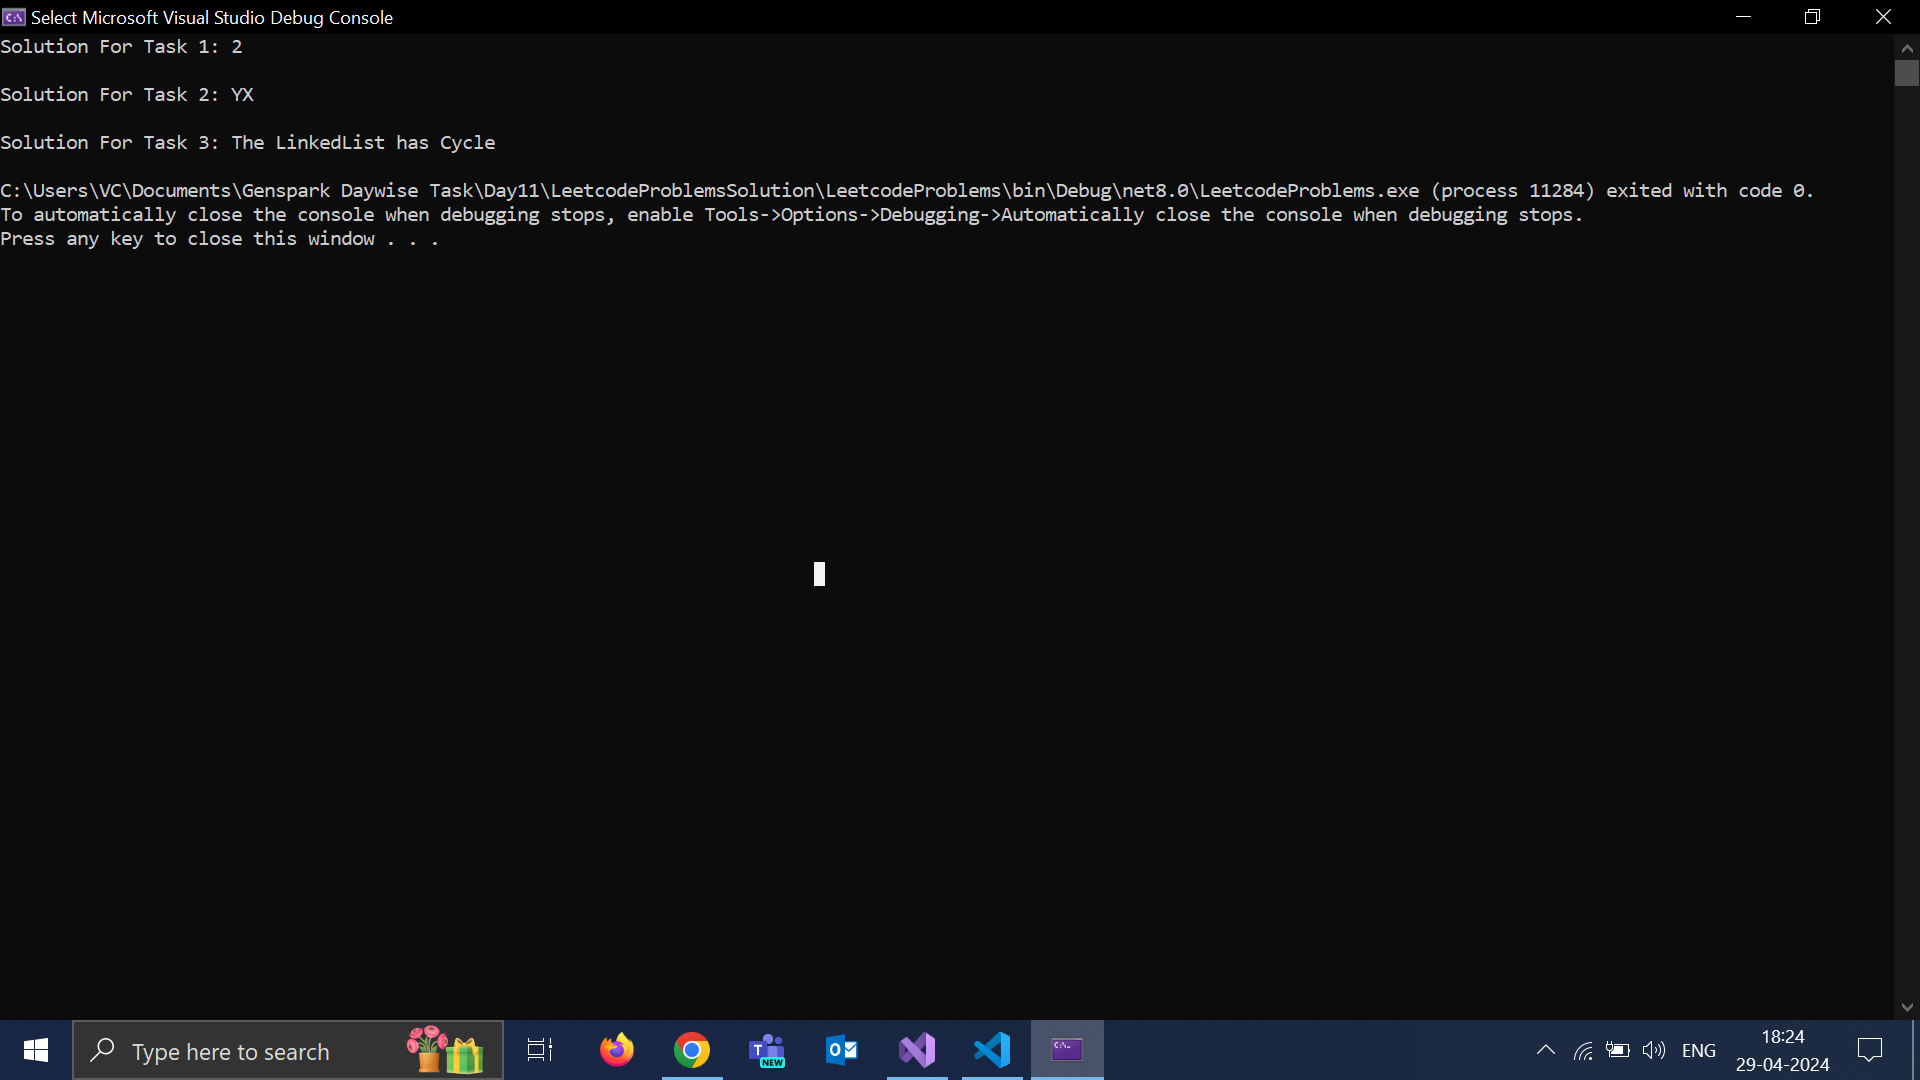
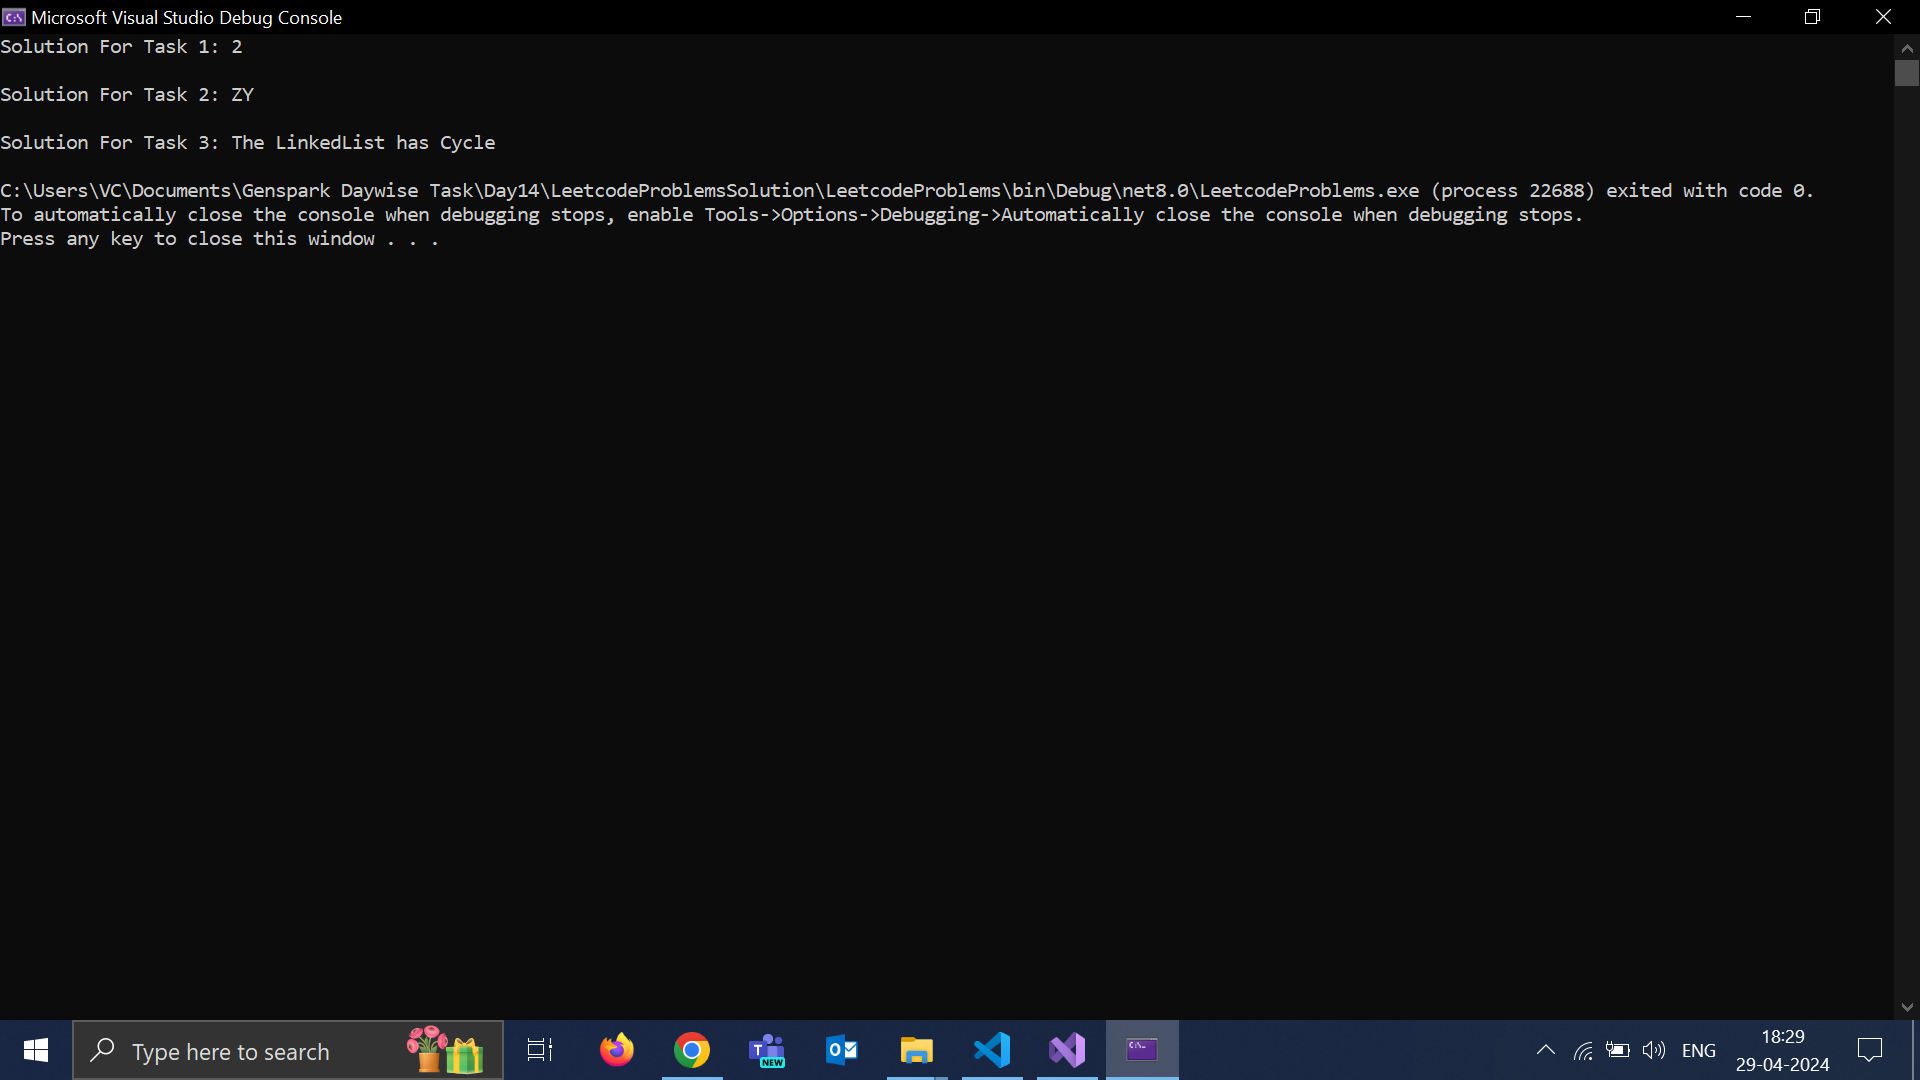
Leetcode Problems - Final

diff --git a/Day14/LeetcodeProblemsSolution/LeetcodeProblems/ExcelSheetColumnTitle.cs b/Day14/LeetcodeProblemsSolution/LeetcodeProblems/ExcelSheetColumnTitle.cs
@@ -6,7 +6,7 @@ namespace LeetcodeProblems
 {
     public class ExcelSheetColumnTitle
     {
-        string alphabets = "0ABCDEFGHIJKLMNOPQRSTUVWXYZ";
+        string alphabets = "ABCDEFGHIJKLMNOPQRSTUVWXYZ";
 
         public string Solution(int columnNumber) 
         {
